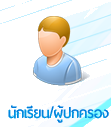
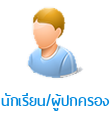
ปุ่มนักเรียน/ผู้ปกครองในหน้า portal: ทำภาพปุ่มใหม่ (พื้นโปร่งใส + ภาพตอนชี้เมาส์) ตามโค้ดที่กำหนด
Claude-Session: https://claude.ai/code/session_01RdNnLdMY8FYQdK6jfBeCnj

diff --git a/mis/index.php b/mis/index.php
@@ -116,7 +116,7 @@ input:-webkit-autofill:focus {
 </tr>
 <tr>
   <td valign="top">&nbsp;</td>
-  <td align="center"><a href="../student" onMouseOut="MM_swapImgRestore()" onMouseOver="MM_swapImage('home_parents_icon','','images/home_parents_icon_f2.png',1);"><img name="home_parents_icon" src="images/home_parents_icon.png" height="116" border="0" id="home_parents_icon" alt="นักเรียน/ผู้ปกครอง"/></a></td>
+  <td align="center"><a href="../student" onMouseOut="MM_swapImgRestore()" onMouseOver="MM_swapImage('home_parents_icon','','images/home_parents_icon_f2.png',1);"><img name="home_parents_icon" src="images/home_parents_icon.png" height="116" border="0" id="home_parents_icon"/></a></td>
   <td valign="top">&nbsp;</td>
   <td align="center"><a href="javascript:void(0);" onClick="GetLink('login_form.php?role=mintra')" onMouseOut="MM_swapImgRestore()" onMouseOver="MM_swapImage('home_admin_icon1','','images/home_admin_icon_f2.png',1)"><img name="home_admin_icon1" src="images/home_admin_icon.png" width="94" height="116" border="0" id="home_admin_icon1" alt="" /></a></td>
   <td valign="top"><p style="margin:0px"></p></td>
